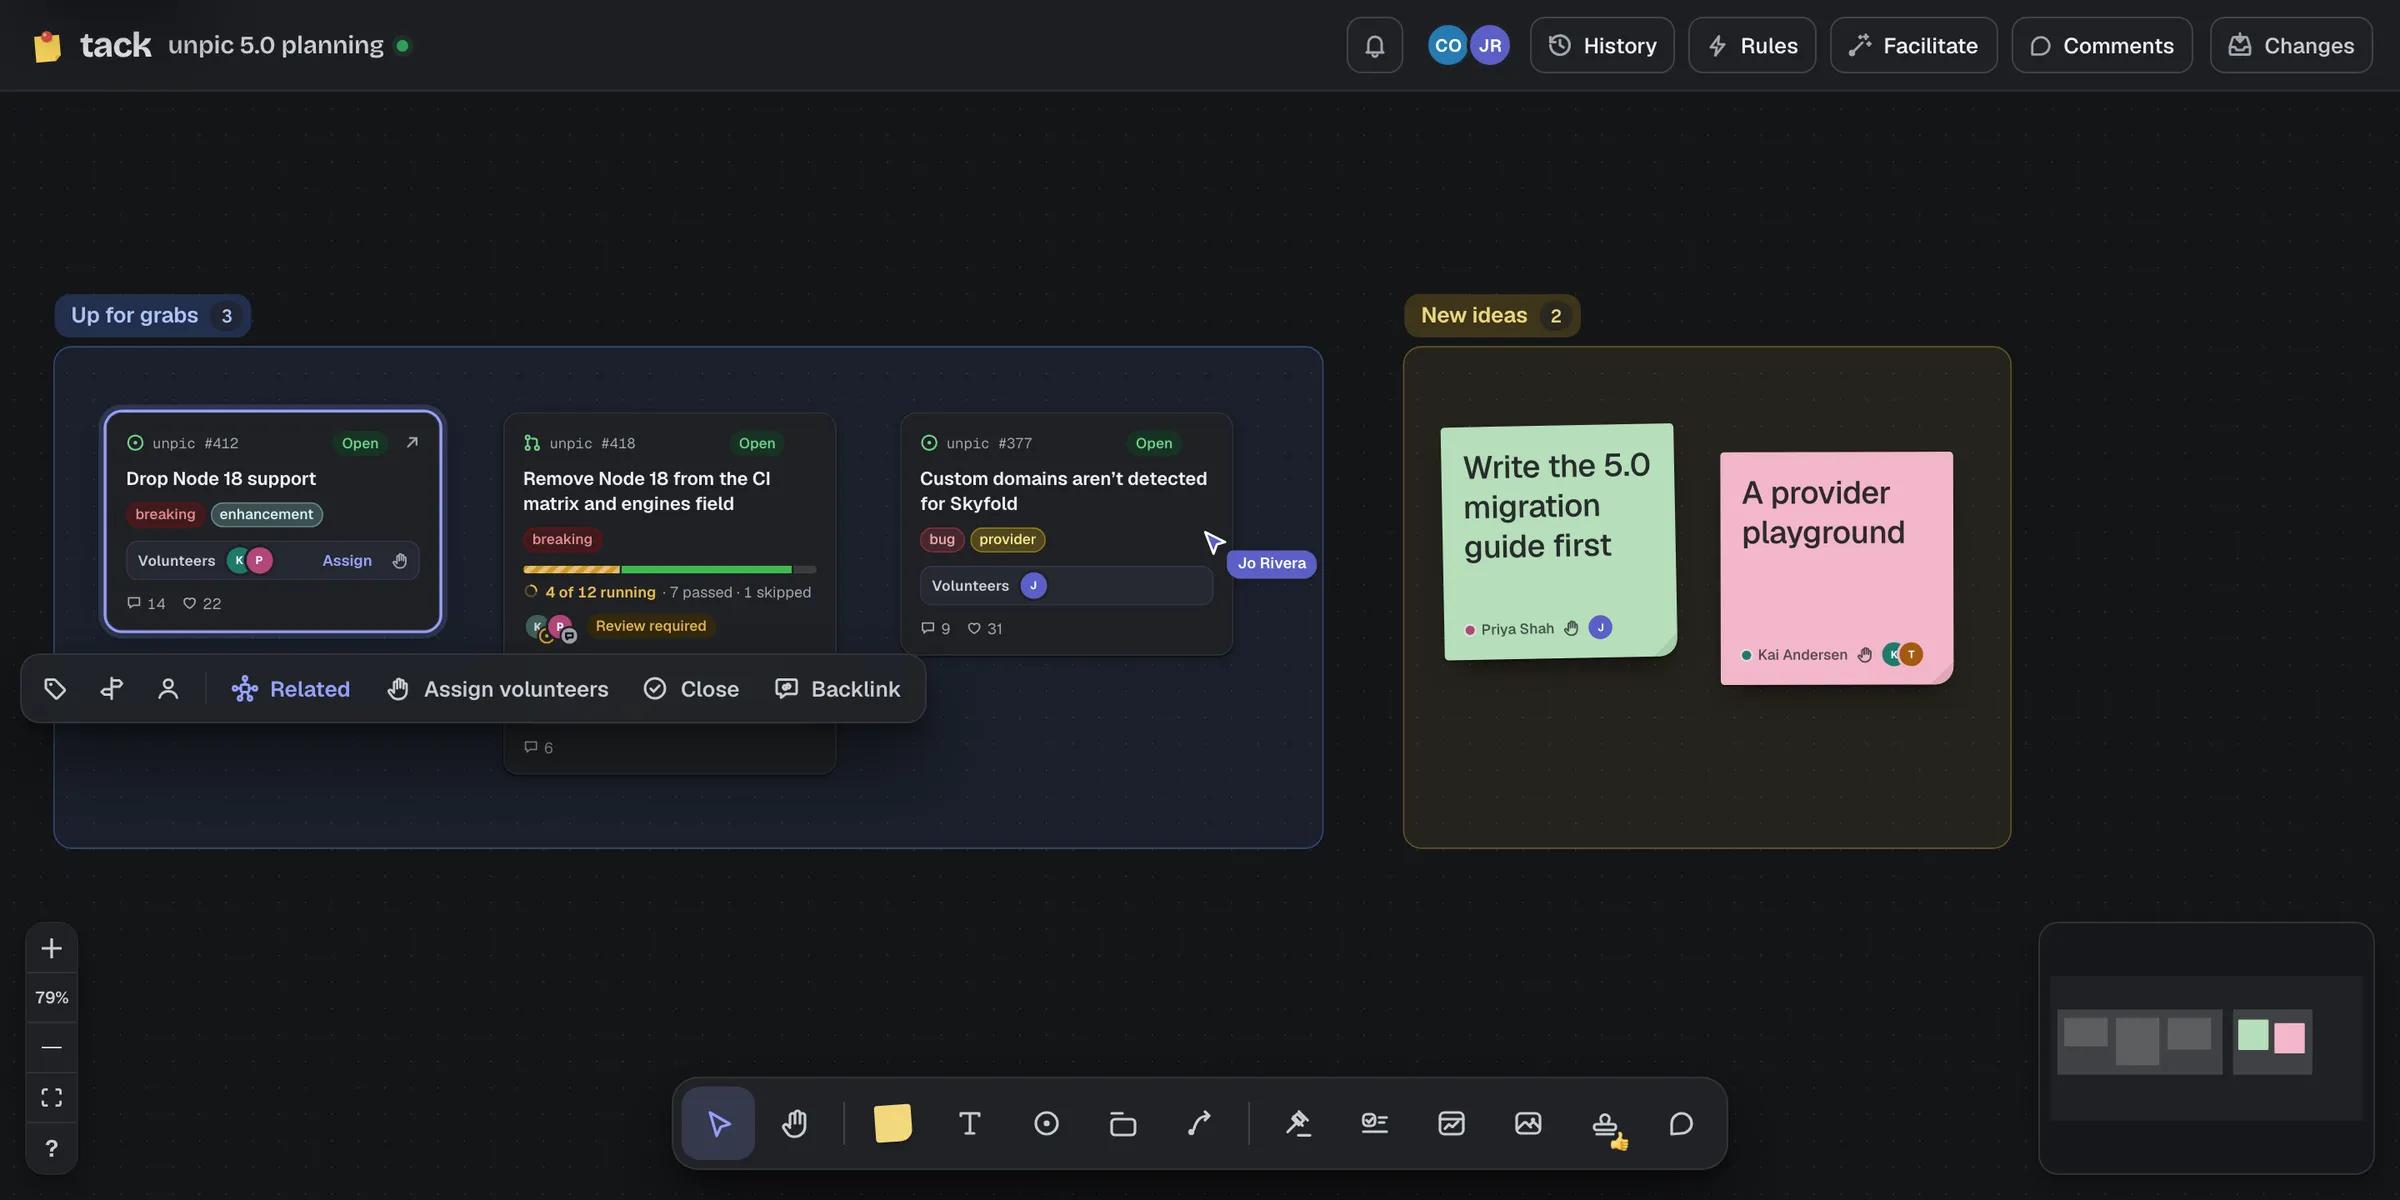
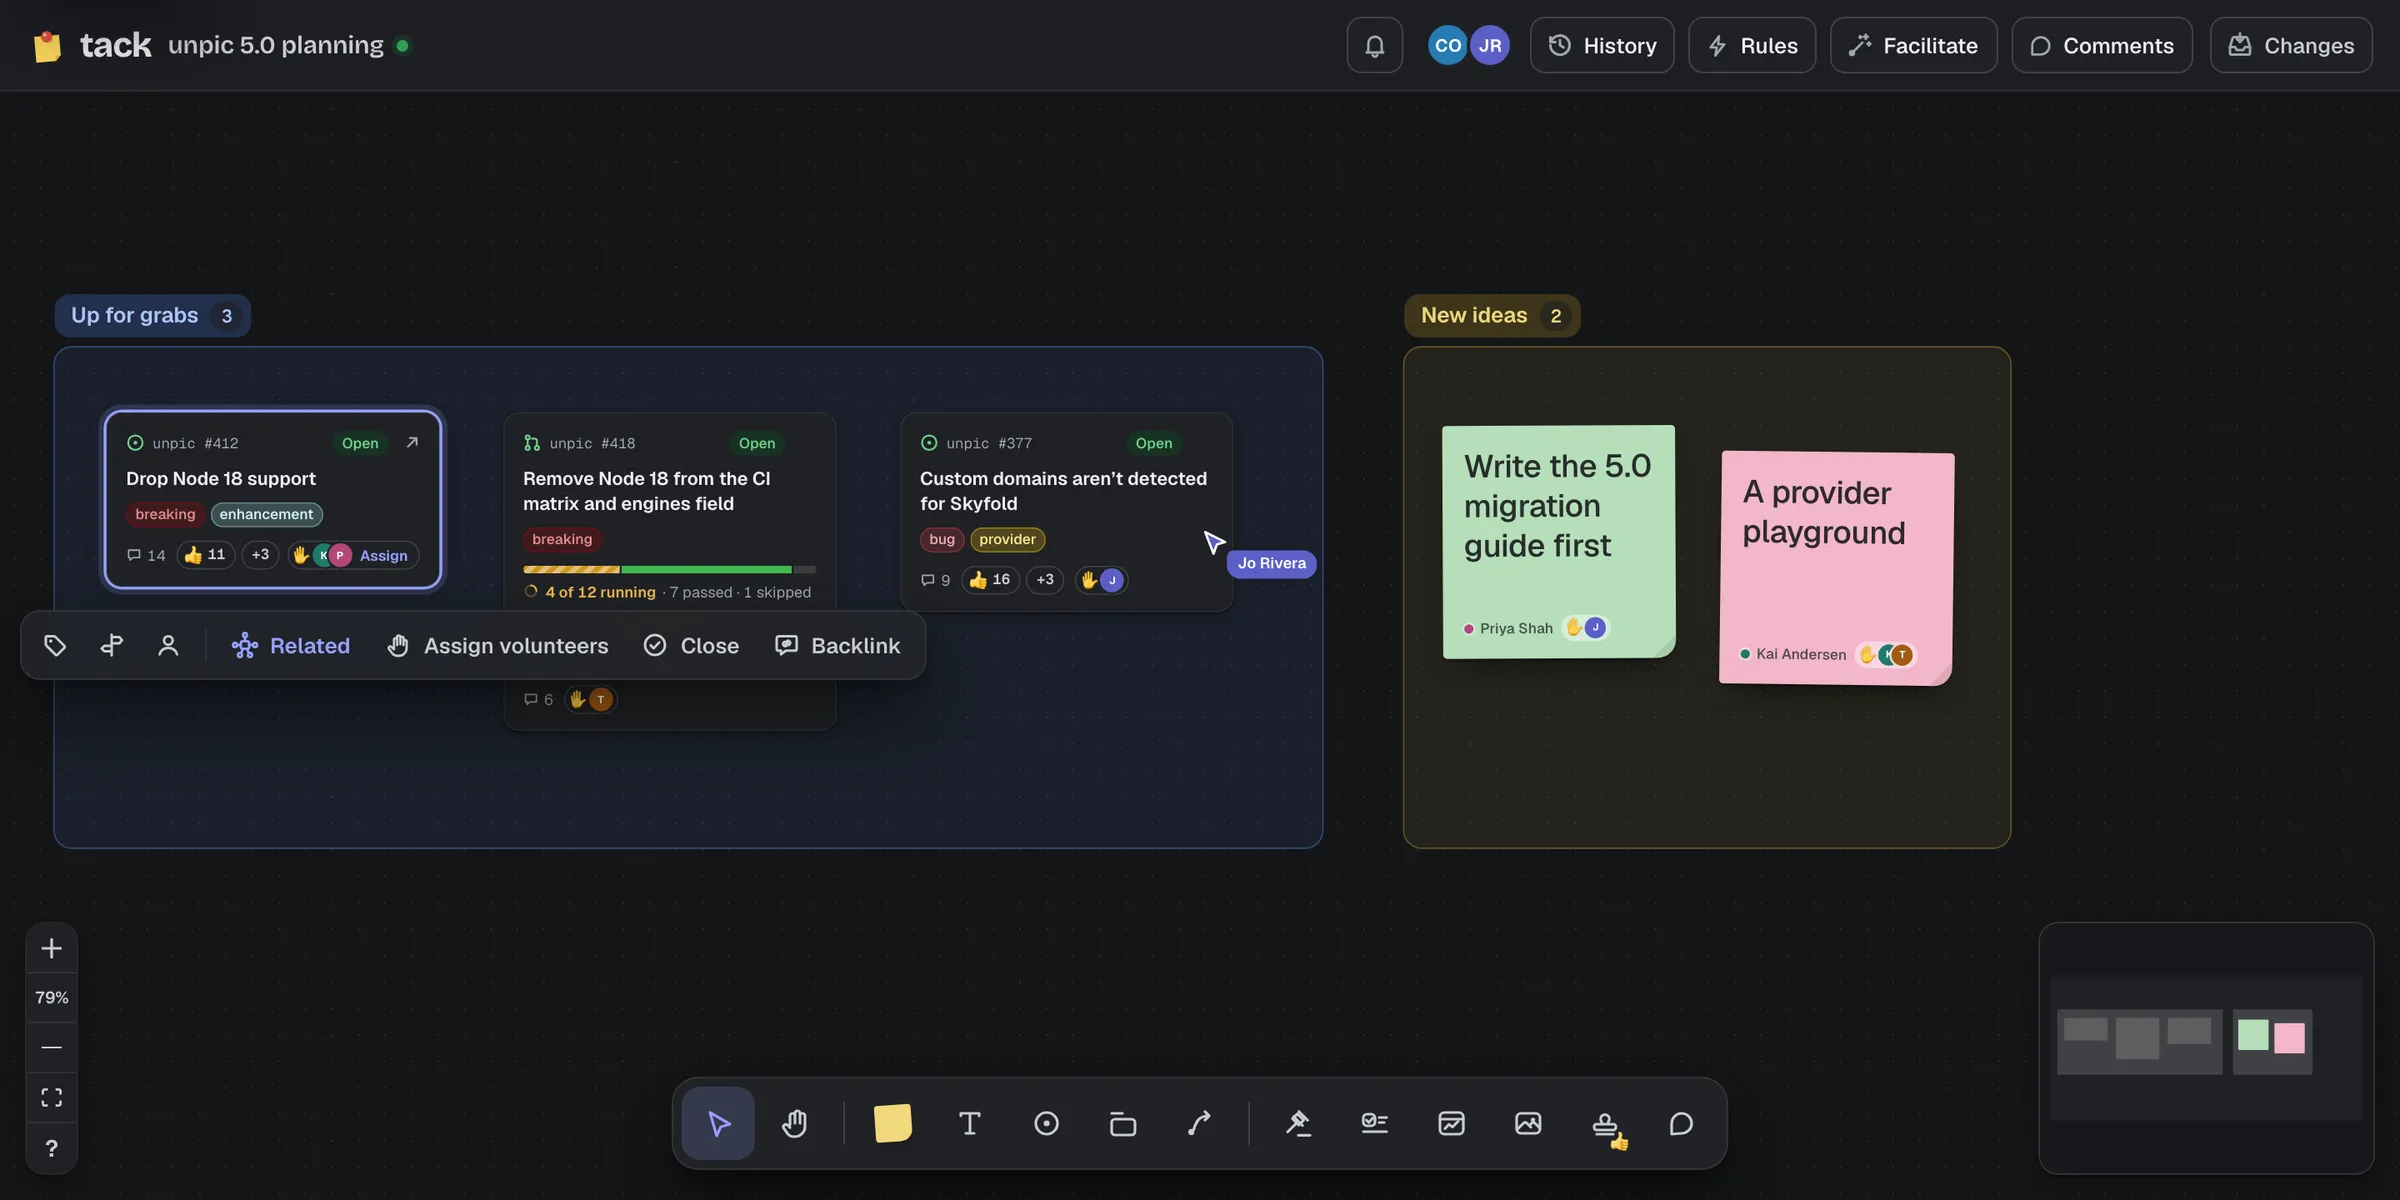
docs(volunteers): the chip beside a card's reactions, and its screenshot retaken

diff --git a/site/src/content/docs/writing-back/actions.md b/site/src/content/docs/writing-back/actions.md
@@ -75,14 +75,14 @@ Discussions take labels like issues do, though only labels the repository alread
 
 ## Assign volunteers
 
-In a session, people put their hands up for the work: ✋ on a card or a sticky adds them to its **Volunteers** row (see [Volunteers](/facilitation/running-a-session/#volunteers)). That's only on the board. To make it real on GitHub, select the cards and choose **Assign volunteers** in the bar, or **Assign** in a card's Volunteers row as you point at it.
+In a session, people put their hands up for the work: ✋ on a card or a sticky adds their face to its volunteers chip (see [Volunteers](/facilitation/running-a-session/#volunteers)). That's only on the board. To make it real on GitHub, select the cards and choose **Assign volunteers** in the bar, or point at a card's chip (or focus it, or select the card) and it unfolds to **Assign**.
 
 - **It adds, never replaces**: whoever's assigned stays assigned, and volunteers already assigned (or already staged) are left as they are. It's one change per item, like **Assign**: "Staged +@kai +@priya on #412".
 - **Only people the repository lets be assigned** are staged. Anyone else is left a volunteer, and the toast says so: "Tom Okafor can't be assigned in acme/app". GitHub allows ten assignees an issue; volunteers past that are left out too.
 - **Volunteers are GitHub people**: a volunteer is whoever's signed in, by their GitHub login, so cards from other forges don't offer it. Discussions have no assignees, so their volunteers stay on the board.
 - **Stickies**: when a sticky is made into an issue (**Make issues**, or as a sub-issue of a **Parent issue**), its volunteers are its assignees, alongside any you pick, and the panel shows them beside each title. The push sheet lists every assignee before anything's written, and once it's pushed, the sticky's volunteers move to its new card.
 
-After the push, assigned volunteers move from the Volunteers row to the card's assignees, and the row goes once everyone in it is assigned. The same happens when someone assigns them on GitHub.
+After the push, assigned volunteers move from the chip to the card's assignees, and the chip goes once everyone in it is assigned. The same happens when someone assigns them on GitHub.
 
 ## Close or reopen
 
